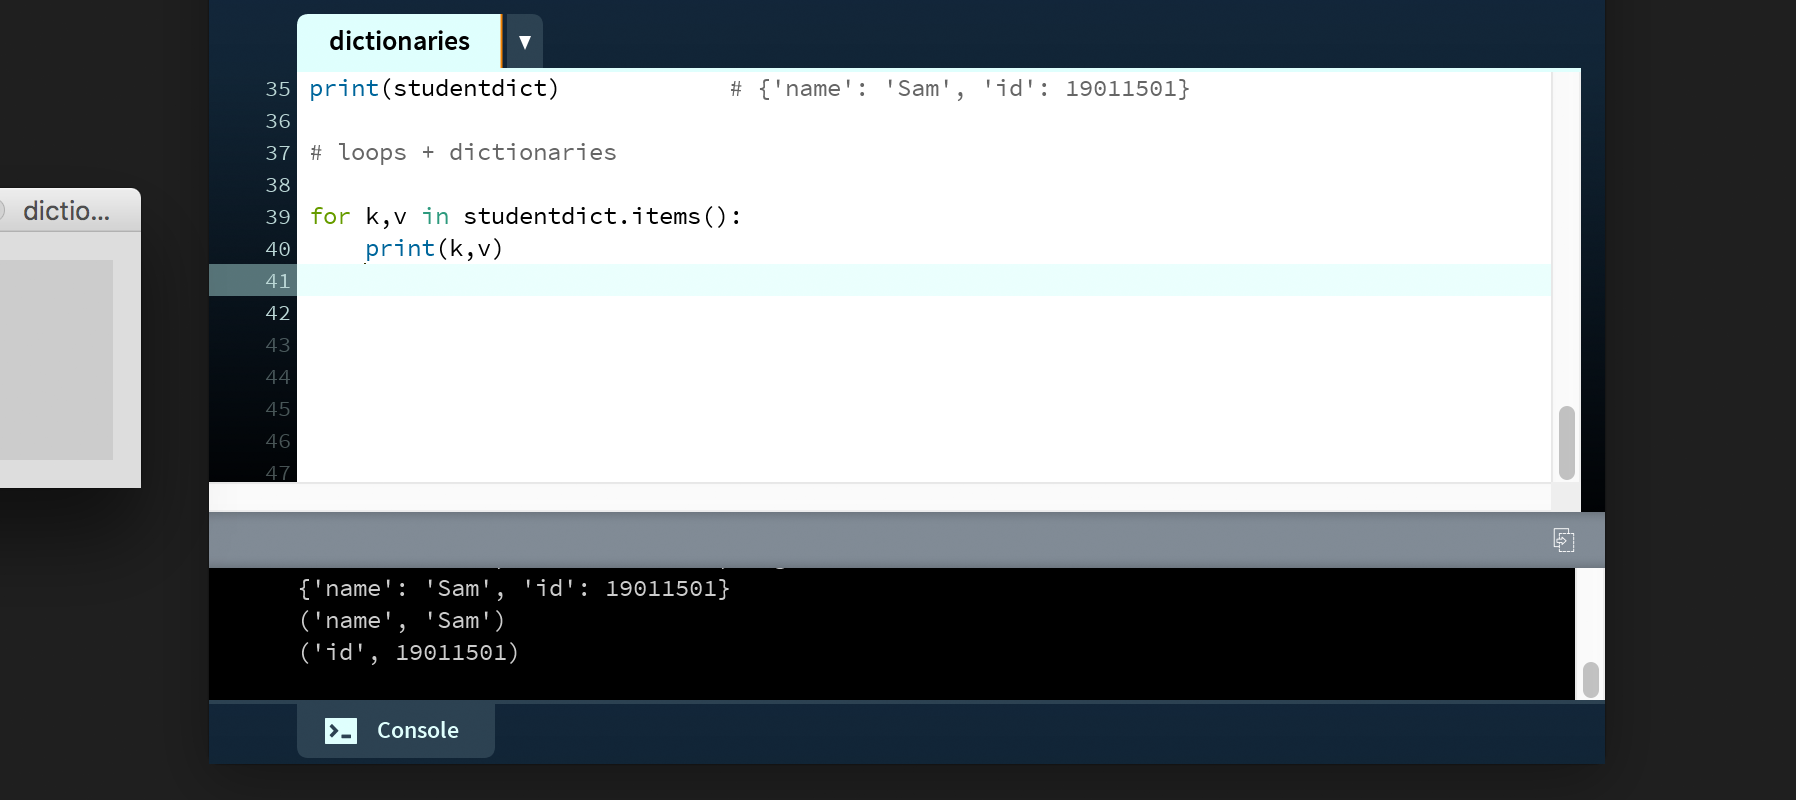
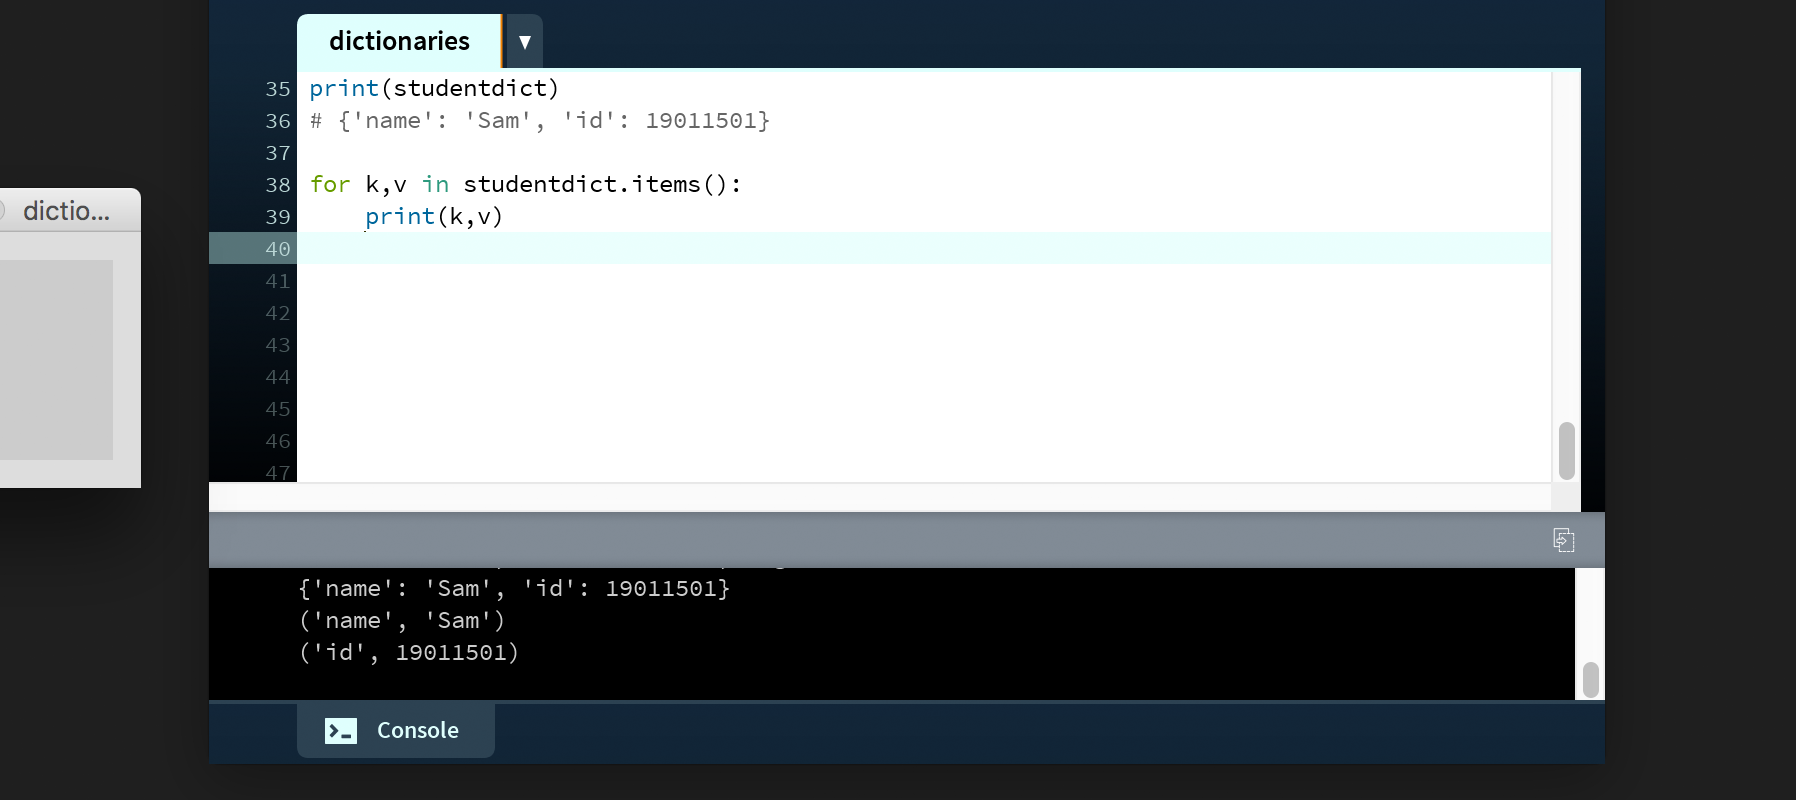
- wip

diff --git a/_posts/2019-01-15-processing.py_in_ten_lessons--05-_art_of_the_state.md b/_posts/2019-01-15-processing.py_in_ten_lessons--05-_art_of_the_state.md
@@ -893,7 +893,8 @@ Dictionaries are dynamic structures, so you can add and modify key-value pairs w
 
 {% highlight py %}
 studentdict['age'] = 25
-print( studentdict )          # {'name': 'Sam', 'age': 25}
+print(studentdict)
+# {'name': 'Sam', 'age': 25}
 {% endhighlight %}
 
 To add a new key-value pair, follow the same process.
@@ -908,7 +909,8 @@ To remove a key-value pair, use the `del` statement.
 
 {% highlight py %}
 del studentdict['age']
-print(studentdict)            # {'name': 'Sam', 'id': 19011501}
+print(studentdict)
+# {'name': 'Sam', 'id': 19011501}
 {% endhighlight %}
 
 If you need to add one dictionary to another, refer to the [`update()`](https://py.processing.org/reference/dict_update.html) method.
@@ -920,7 +922,8 @@ As with lists, Pythons can loop through dictionaries. Considering that a diction
 Firstly, let's print the dictionary to confirm what we are dealing with:
 
 {% highlight py %}
-print(studentdict)            # {'name': 'Sam', 'id': 19011501}
+print(studentdict)
+# {'name': 'Sam', 'id': 19011501}
 {% endhighlight %}
 
 Now, for a loop. Because the `keys()` method returns a list, it can be iterated like any other list. Of course, each iteration retrieves a key name.
